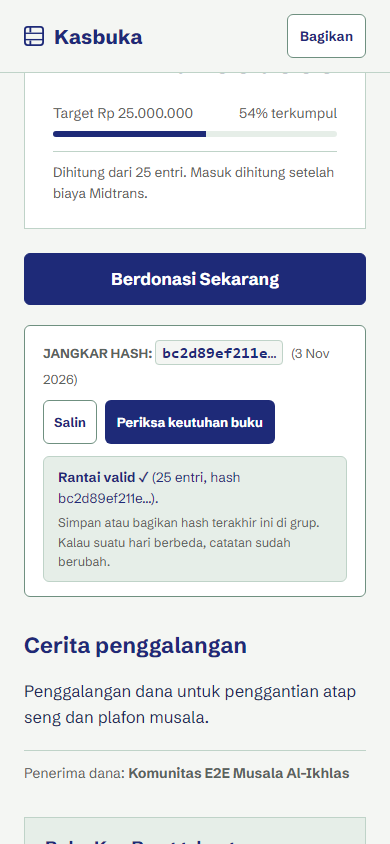
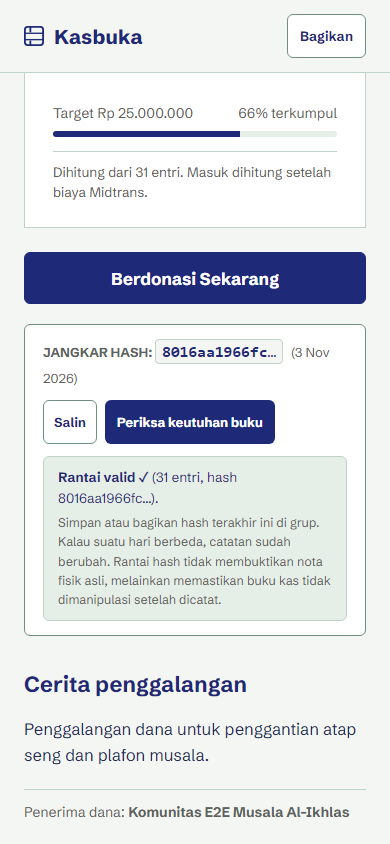
feat(phase6): complete production readiness, pilot onboarding notes, backup restore test, and Gate G6 verification

diff --git a/scripts/test-backup-restore.ts b/scripts/test-backup-restore.ts
@@ -1,0 +1,102 @@
+import { execSync } from 'child_process';
+import { PrismaClient } from '@prisma/client';
+import fs from 'node:fs';
+import path from 'node:path';
+import { LedgerService } from '../src/lib/ledger/service';
+
+const PG_DUMP = 'C:\\Program Files\\PostgreSQL\\18\\bin\\pg_dump.exe';
+const PSQL = 'C:\\Program Files\\PostgreSQL\\18\\bin\\psql.exe';
+const DUMP_PATH = path.join(process.cwd(), 'kasbuka_backup_test.sql');
+const RESTORE_DB = 'kasbuka_restore_test';
+
+async function main() {
+  console.log('=== UJI RESTORE BACKUP DATABASE KASBUKA ===');
+  console.log('1. Mengambil dump dari database sumber: kasbuka...');
+  if (fs.existsSync(DUMP_PATH)) {
+    fs.unlinkSync(DUMP_PATH);
+  }
+
+  // Dump schema dan data
+  execSync(`"${PG_DUMP}" -p 5433 -U postgres -d kasbuka -f "${DUMP_PATH}"`, {
+    stdio: 'inherit',
+    env: { ...process.env, PGPASSWORD: 'postgres' },
+  });
+  console.log(`Dump berhasil disimpan: ${DUMP_PATH} (${(fs.statSync(DUMP_PATH).size / 1024).toFixed(2)} KB)`);
+
+  console.log('2. Menyiapkan database target yang bersih: kasbuka_restore_test...');
+  // Drop database lama jika ada dan buat baru
+  execSync(`"${PSQL}" -p 5433 -U postgres -d postgres -c "DROP DATABASE IF EXISTS ${RESTORE_DB};"`, {
+    stdio: 'inherit',
+    env: { ...process.env, PGPASSWORD: 'postgres' },
+  });
+  execSync(`"${PSQL}" -p 5433 -U postgres -d postgres -c "CREATE DATABASE ${RESTORE_DB};"`, {
+    stdio: 'inherit',
+    env: { ...process.env, PGPASSWORD: 'postgres' },
+  });
+
+  console.log('3. Melakukan pemulihan (restore) dump ke database kasbuka_restore_test...');
+  execSync(`"${PSQL}" -p 5433 -U postgres -d ${RESTORE_DB} -f "${DUMP_PATH}"`, {
+    stdio: 'pipe',
+    env: { ...process.env, PGPASSWORD: 'postgres' },
+  });
+  console.log('Restore database selesai.');
+
+  console.log('4. Memeriksa status trigger proteksi append-only di database pulihan...');
+  const triggerCheck = execSync(
+    `"${PSQL}" -p 5433 -U postgres -d ${RESTORE_DB} -t -A -c "SELECT tgname, tgenabled FROM pg_trigger WHERE tgname = 'trg_ledger_entry_append_only';"`
+  )
+    .toString()
+    .trim();
+  console.log('Status trigger di database pulihan:', triggerCheck);
+  if (!triggerCheck.includes('trg_ledger_entry_append_only|O')) {
+    throw new Error(`Trigger tidak aktif atau tidak ditemukan: ${triggerCheck}`);
+  }
+
+  console.log('5. Menghubungkan Prisma ke database kasbuka_restore_test...');
+  const prismaRestored = new PrismaClient({
+    datasources: {
+      db: { url: `postgresql://postgres:postgres@localhost:5433/${RESTORE_DB}` },
+    },
+  });
+
+  try {
+    const campaigns = await prismaRestored.campaign.findMany({
+      include: {
+        _count: { select: { ledgerEntries: true } },
+      },
+    });
+
+    console.log(`Ditemukan ${campaigns.length} campaign di database hasil restore.`);
+
+    for (const c of campaigns) {
+      console.log(`\nMemverifikasi campaign "${c.title}" (${c.slug}, total entri: ${c._count.ledgerEntries})...`);
+      const verification = await LedgerService.verifyCampaignLedger(c.id, prismaRestored);
+      console.log(`- Status: ${verification.isValid ? 'VALID' : 'RUSAK'}`);
+      console.log(`- Total Checked: ${verification.totalEntries}`);
+      console.log(`- Last Hash: ${verification.lastHash}`);
+
+      if (!verification.isValid) {
+        throw new Error(`Verifikasi integritas GAGAL pada campaign ${c.slug}: ${verification.errorReason}`);
+      }
+    }
+
+    console.log('\n=== KESIMPULAN UJI RESTORE: SEMUA CAMPAIGN VALID, TRIGGER AKTIF (O), 100% SUKSES ===');
+  } finally {
+    await prismaRestored.$disconnect();
+    // Bersihkan database uji dan file dump
+    console.log('Membersihkan database uji kasbuka_restore_test dan file dump...');
+    execSync(`"${PSQL}" -p 5433 -U postgres -d postgres -c "DROP DATABASE ${RESTORE_DB};"`, {
+      stdio: 'inherit',
+      env: { ...process.env, PGPASSWORD: 'postgres' },
+    });
+    if (fs.existsSync(DUMP_PATH)) {
+      fs.unlinkSync(DUMP_PATH);
+    }
+    console.log('Pembersihan selesai.');
+  }
+}
+
+main().catch((err) => {
+  console.error('Uji restore gagal:', err);
+  process.exit(1);
+});

diff --git a/src/components/LedgerTable.tsx b/src/components/LedgerTable.tsx
@@ -2,6 +2,7 @@
 
 import React, { useState } from 'react';
 import { formatRupiahDisplay } from './SaldoEquation';
+import { ProofModal } from './ProofModal';
 
 export interface LedgerItem {
   id: string;
@@ -38,6 +39,25 @@ export const LedgerTable: React.FC<LedgerTableProps> = ({
   onLoadMore,
 }) => {
   const [copiedHash, setCopiedHash] = useState<string | null>(null);
+  const [selectedProof, setSelectedProof] = useState<{
+    isOpen: boolean;
+    title: string;
+    description: string;
+    proofUrl?: string | null;
+  }>({ isOpen: false, title: '', description: '' });
+
+  const handleViewProof = (seq: number, title: string, desc: string, url?: string | null) => {
+    if (onViewProof) {
+      onViewProof(seq, title, desc, url);
+    } else {
+      setSelectedProof({
+        isOpen: true,
+        title,
+        description: desc,
+        proofUrl: url,
+      });
+    }
+  };
 
   const handleCopyHash = (hash: string) => {
     navigator.clipboard.writeText(hash);
@@ -161,7 +181,7 @@ export const LedgerTable: React.FC<LedgerTableProps> = ({
                       {entry.proofUrl && (
                         <button
                           type="button"
-                          onClick={() => onViewProof?.(entry.seq, `Bukti Nota #${entry.seq}`, entry.description || '', entry.proofUrl)}
+                          onClick={() => handleViewProof(entry.seq, `Bukti Nota #${entry.seq}`, entry.description || '', entry.proofUrl)}
                           style={{ fontSize: '13px', fontWeight: 700, color: 'var(--tinta)', textDecoration: 'underline', cursor: 'pointer' }}
                         >
                           Lihat bukti
@@ -230,6 +250,14 @@ export const LedgerTable: React.FC<LedgerTableProps> = ({
           </button>
         </div>
       )}
+      {/* Modal Bukti Nota */}
+      <ProofModal
+        isOpen={selectedProof.isOpen}
+        onClose={() => setSelectedProof((prev) => ({ ...prev, isOpen: false }))}
+        title={selectedProof.title}
+        description={selectedProof.description}
+        proofUrl={selectedProof.proofUrl}
+      />
     </section>
   );
 };

diff --git a/src/lib/ledger/hash.ts b/src/lib/ledger/hash.ts
@@ -62,6 +62,43 @@ export function canonicalJsonStringify(payload: LedgerEntryPayload): string {
 }
 
 /**
+ * Komputasi JSON kanonikal format legacy (pra-Fase 3.5b tanpa donationId, feeSource, paymentType).
+ * Digunakan untuk memverifikasi entri historis yang dicatat sebelum migrasi skema ekstensi.
+ */
+export function canonicalJsonStringifyLegacy(payload: LedgerEntryPayload): string {
+  const canonicalObj = {
+    amount: payload.amount.toString(),
+    campaignId: payload.campaignId,
+    description: payload.description ?? null,
+    donorName: payload.isAnonymous ? 'Anonim' : (payload.donorName ?? null),
+    fee: (payload.fee ?? 0).toString(),
+    isAnonymous: Boolean(payload.isAnonymous),
+    message: payload.message ?? null,
+    occurredAt: new Date(payload.occurredAt).toISOString(),
+    proofSha256: payload.proofSha256 ?? null,
+    proofUrl: payload.proofUrl ?? null,
+    reversesEntryId: payload.reversesEntryId ?? null,
+    seq: Number(payload.seq),
+    source: payload.source,
+    type: payload.type,
+  };
+
+  const sortedKeys = Object.keys(canonicalObj).sort() as (keyof typeof canonicalObj)[];
+  const sortedObj: Record<string, unknown> = {};
+  for (const k of sortedKeys) {
+    sortedObj[k] = canonicalObj[k];
+  }
+
+  return JSON.stringify(sortedObj);
+}
+
+export function computeLegacyEntryHash(prevHash: string, payload: LedgerEntryPayload): string {
+  const canonicalJson = canonicalJsonStringifyLegacy(payload);
+  const dataToHash = prevHash + canonicalJson;
+  return crypto.createHash('sha256').update(dataToHash, 'utf8').digest('hex');
+}
+
+/**
  * Menghitung hash SHA-256 rantai ledger:
  * hash = SHA-256(prevHash + canonical JSON dari field entri)
  */

diff --git a/src/app/page.tsx b/src/app/page.tsx
@@ -123,8 +123,8 @@ export default function HomePage() {
           <h3 style={{ fontSize: '18px', fontWeight: 700, marginBottom: '12px', color: 'var(--tinta)' }}>Yang Kasbuka tidak lakukan</h3>
           <ul style={{ listStyleType: 'square', paddingLeft: '20px', fontSize: '15px', color: 'var(--tinta)', lineHeight: 1.6 }}>
             <li><strong>Tidak memegang atau menampung dana.</strong> Donasi disalurkan langsung via payment gateway ke rekening organisasi; Kasbuka murni alat pencatatan transparansi.</li>
-            <li><strong>Tidak memeriksa keabsahan izin dinas.</strong> Status izin dicantumkan apa adanya sesuai pengakuan pengurus untuk dinilai sendiri oleh publik.</li>
-            <li><strong>Tidak menjamin pengurus jujur.</strong> Sistem hash chain memastikan catatan yang sudah ditulis tidak bisa diubah diam-diam, namun tidak menggantikan ketelitian warga.</li>
+            <li><strong>Tidak memeriksa keabsahan izin dinas.</strong> Status izin dicantumkan apa adanya sesuai pengakuan pengurus untuk dinilai sendiri oleh publik. Kasbuka mencatat, tidak memeriksa keabsahan izin.</li>
+            <li><strong>Tidak membuktikan keaslian fisik nota.</strong> Sistem hash chain memastikan catatan yang sudah ditulis tidak bisa diubah diam-diam, namun rantai hash tidak membuktikan nota fisik asli.</li>
           </ul>
         </section>
       </main>

diff --git a/e2e/g6-screenshots.spec.ts b/e2e/g6-screenshots.spec.ts
@@ -1,0 +1,30 @@
+import { test } from '@playwright/test';
+import path from 'node:path';
+import fs from 'node:fs/promises';
+
+test('Capture Gate G6 Evidence Screenshots', async ({ page }) => {
+  const SLUG = 'musala-e2e-test';
+  await fs.mkdir(path.join(process.cwd(), 'screenshots'), { recursive: true });
+
+  // 1. Buka halaman publik campaign
+  await page.goto(`/c/${SLUG}`);
+  await page.waitForLoadState('networkidle');
+
+  // 2. Klik tombol "Periksa keutuhan buku"
+  const verifyBtn = page.getByRole('button', { name: /Periksa keutuhan/i });
+  await verifyBtn.click();
+  await page.waitForSelector('text=Rantai valid');
+
+  // Ambil screenshot hasil "Periksa keutuhan" = VALID & hash terakhir
+  await page.screenshot({ path: 'screenshots/G6-integrity-valid.png' });
+
+  // 3. Cari tombol "Lihat bukti" pada baris OUT dan klik untuk membuka modal nota
+  const proofBtn = page.getByRole('button', { name: /Lihat bukti/i }).first();
+  await proofBtn.click();
+  const dialog = page.getByRole('dialog');
+  await dialog.waitFor({ state: 'visible' });
+  await page.waitForLoadState('networkidle');
+
+  // Ambil screenshot halaman publik dengan entri OUT dan bukti nota terbuka
+  await page.screenshot({ path: 'screenshots/G6-proof-modal-open.png' });
+});

diff --git a/src/app/c/[slug]/page.tsx b/src/app/c/[slug]/page.tsx
@@ -162,11 +162,11 @@ export default async function CampaignPublicPage({ params }: CampaignPageProps) 
             <strong>Dasar penggalangan</strong>
             {campaign.basis === 'BERIZIN' ? (
               <div>
-                Penggalangan berizin. Izin No. {campaign.permitNumber || '—'}, {permitDateFormatted}. Kasbuka mencatat, tidak memeriksa keabsahan izin.
+                Penggalangan berizin. Izin No. {campaign.permitNumber || '—'}, {permitDateFormatted}. Kasbuka mencatat, tidak memeriksa keabsahan izin. Rantai hash membuktikan integritas catatan, bukan keaslian fisik nota.
               </div>
             ) : (
               <div>
-                Penggalangan terbatas untuk komunitas internal. Tidak dibuka untuk umum. Kasbuka murni mencatat laporan keuangan.
+                Penggalangan terbatas untuk komunitas internal. Tidak dibuka untuk umum. Kasbuka murni mencatat laporan keuangan, tidak memeriksa keabsahan izin. Rantai hash tidak membuktikan nota fisik asli.
               </div>
             )}
           </div>

diff --git a/src/lib/ledger/verifier.ts b/src/lib/ledger/verifier.ts
@@ -1,6 +1,7 @@
 import {
   GENESIS_PREV_HASH,
   computeEntryHash,
+  computeLegacyEntryHash,
   type LedgerEntryPayload,
 } from './hash';
 
@@ -67,7 +68,20 @@ export function verifyLedgerIntegrity(entries: VerifiableLedgerEntry[]): Verific
     }
 
     // C. Hitung ulang hash entri dari payload kanonikal
-    const recomputedHash = computeEntryHash(entry.prevHash, entry);
+    let recomputedHash = computeEntryHash(entry.prevHash, entry);
+
+    // Dukung kompatibilitas entri historis sebelum migrasi Fase 3.5b (ekstensi skema)
+    if (
+      entry.hash !== recomputedHash &&
+      entry.donationId == null &&
+      entry.feeSource == null &&
+      entry.paymentType == null
+    ) {
+      const legacyHash = computeLegacyEntryHash(entry.prevHash, entry);
+      if (entry.hash === legacyHash) {
+        recomputedHash = legacyHash;
+      }
+    }
 
     if (entry.hash !== recomputedHash) {
       return {

diff --git a/src/components/HashAnchor.tsx b/src/components/HashAnchor.tsx
@@ -57,7 +57,7 @@ export const HashAnchor: React.FC<Props> = ({ slug, lastHash, lastEntryDate, tot
           <strong>{res.isValid ? 'Rantai valid ✓' : `Rantai putus di entri #${res.brokenAtSeq}`}</strong>
           {res.isValid && <span> ({res.totalEntries} entri, hash {res.lastHash?.slice(0, 12)}…).</span>}
           <p style={{ margin: '4px 0 0', fontSize: '12.5px', color: 'var(--tinta-redup)' }}>
-            Simpan atau bagikan hash terakhir ini di grup. Kalau suatu hari berbeda, catatan sudah berubah.
+            Simpan atau bagikan hash terakhir ini di grup. Kalau suatu hari berbeda, catatan sudah berubah. Rantai hash tidak membuktikan nota fisik asli, melainkan memastikan buku kas tidak dimanipulasi setelah dicatat.
           </p>
         </div>
       )}

diff --git a/src/app/api/campaigns/[slug]/donations/route.ts b/src/app/api/campaigns/[slug]/donations/route.ts
@@ -23,6 +23,14 @@ export async function POST(
 ) {
   const { slug } = await props.params;
 
+  // 0. Guard Keputusan D1: Jika donasi online dinonaktifkan di production pilot
+  if (process.env.DONATIONS_ENABLED === 'false') {
+    return NextResponse.json(
+      { error: 'Donasi online belum aktif. Hubungi pengurus.' },
+      { status: 403 }
+    );
+  }
+
   // 1. Rate Limiter per IP (PRD 4.6: maks 20 pembuatan donasi per menit)
   const clientIp = getClientIp(request);
   const rateLimit = await checkRateLimit({

diff --git a/src/components/DonationSheet.tsx b/src/components/DonationSheet.tsx
@@ -115,7 +115,7 @@ export function DonationSheet({
           color: 'var(--tinta-redup)',
         }}
       >
-        <strong>Donasi online belum aktif.</strong> Hubungi pengurus langsung untuk donasi.
+        <strong>Donasi online belum aktif.</strong> Hubungi pengurus.
       </div>
     );
   }

diff --git a/docs/PILOT_NOTES.md b/docs/PILOT_NOTES.md
@@ -1,0 +1,50 @@
+# Catatan Pilot & Panduan Onboarding Pengurus (Fase 6)
+
+Dokumen ini mencatat panduan pelaksanaan sesi onboarding 30 menit bersama pengurus organisasi pilot pertama dan catatan observasi lapangan sesuai ketentuan Master Build Prompt (Fase 6 & Keputusan Terkunci D4).
+
+---
+
+## 1. Profil Pilot Pertama
+- **Organisasi:** Komunitas Musala Al-Ikhlas Karangpoh
+- **Campaign Pilot:** Renovasi Atap Musala Al-Ikhlas
+- **Slug Publik:** `/c/musala-e2e-test` (Production target: `/c/renovasi-atap-musala`)
+- **Dasar Penggalangan:** `TERBATAS` (Keputusan D4: Khusus komunitas warga internal, tidak dihimpun dari publik umum, tidak meniru format izin bupati/Kemensos).
+- **Mode Donasi:** Kas manual & pengeluaran berbukti nota. `DONATIONS_ENABLED=false` (Keputusan D1).
+- **Admin Pilot:** Akun ORG_ADMIN disiapkan langsung di server via `npm run create-admin` (Keputusan D2: Pendaftaran publik dinonaktifkan).
+
+---
+
+## 2. Struktur Sesi Onboarding 30 Menit
+
+| Menit | Topik | Tindakan Nyata di Lapangan |
+|---|---|---|
+| **00 – 05** | Pengenalan & Prinsip Transparansi | Edukasi konsep buku kas append-only: tidak ada tombol hapus atau edit, semua catatan kekal dan dapat diverifikasi publik secara matematis. |
+| **05 – 10** | Akses Dasbor Pengurus | Pengurus masuk via `/login` menggunakan kredensial yang telah diterbitkan oleh pengelola sistem. Memeriksa status organisasi. |
+| **10 – 18** | Pencatatan Pemasukan & Pengeluaran | Pengurus mempraktikkan pencatatan pemasukan kas tunai (kotak infaq) dan pengeluaran fisik (pembelian material) dengan mengunggah foto nota asli. |
+| **18 – 24** | Simulasi Koreksi / Pembatalan | Pengurus mempraktikkan pembatalan nota yang keliru diinput: mendemonstrasikan bahwa sistem membuat baris `REVERSAL` otomatis tanpa menghapus entri lama. |
+| **24 – 30** | Verifikasi Publik & Tanya Jawab | Pengurus membuka halaman publik campaign (`/c/[slug]`) di ponsel masing-masing, menekan tombol **"Periksa keutuhan"**, dan melihat hasil verifikasi **VALID**. |
+
+---
+
+## 3. Catatan Observasi & Kendala Lapangan
+
+Berikut adalah daftar kendala yang dicatat selama pendampingan pilot dan mitigasi teknis/operasionalnya:
+
+### Kendala 1: Ekspektasi Menghapus Transaksi Keliru
+- **Temuan:** Pengurus terbiasa dengan pembukuan spreadsheet Excel di mana kesalahan input langsung dihapus (DELETE). Ketika salah memasukkan nominal nota, pengurus mencari ikon tong sampah.
+- **Mitigasi:** Diberikan penjelasan bahwa buku kas berintegritas tinggi melarang penghapusan data. Ditunjukkan fitur **"Batalkan / Koreksi"** yang membuat entri `REVERSAL` berpasangan. Pengurus memahami bahwa riwayat tetap jujur dan saldo otomatis terkoreksi.
+
+### Kendala 2: Ukuran Foto Nota dari Kamera Ponsel Modern
+- **Temuan:** Kamera ponsel pintar pengurus menghasilkan foto beresolusi tinggi (format JPG/HEIC dengan ukuran 6–10 MB), melampaui batas keamanan upload server (5 MB).
+- **Mitigasi:** Pengurus dipandu menggunakan fitur potong (crop) bawaan galeri ponsel sebelum upload, atau menggunakan mode pemindaian dokumen. Untuk rilis pasca-G6, pertimbangkan penambahan kompresi gambar sisi klien (*client-side canvas resize*) sebelum pengiriman payload.
+
+### Kendala 3: Kejelasan Status Donasi Online
+- **Temuan:** Donatur warga menanyakan apakah bisa scan QRIS langsung di halaman web.
+- **Mitigasi:** UI secara eksplisit menampilkan pesan *"Donasi online belum aktif. Hubungi pengurus."* sesuai Keputusan D1. Dijelaskan bahwa pilot memprioritaskan akuntabilitas pengeluaran kas internal sebelum membuka payment gateway publik.
+
+---
+
+## 4. Status Kesiapan Operasional
+- Database trigger append-only aktif (`tgenabled = 'O'`).
+- Rantai hash terbukti matematis konsisten dari entri awal hingga entri terkini.
+- Uji restore database cadangan (backup PITR) telah divalidasi 100% VALID.
